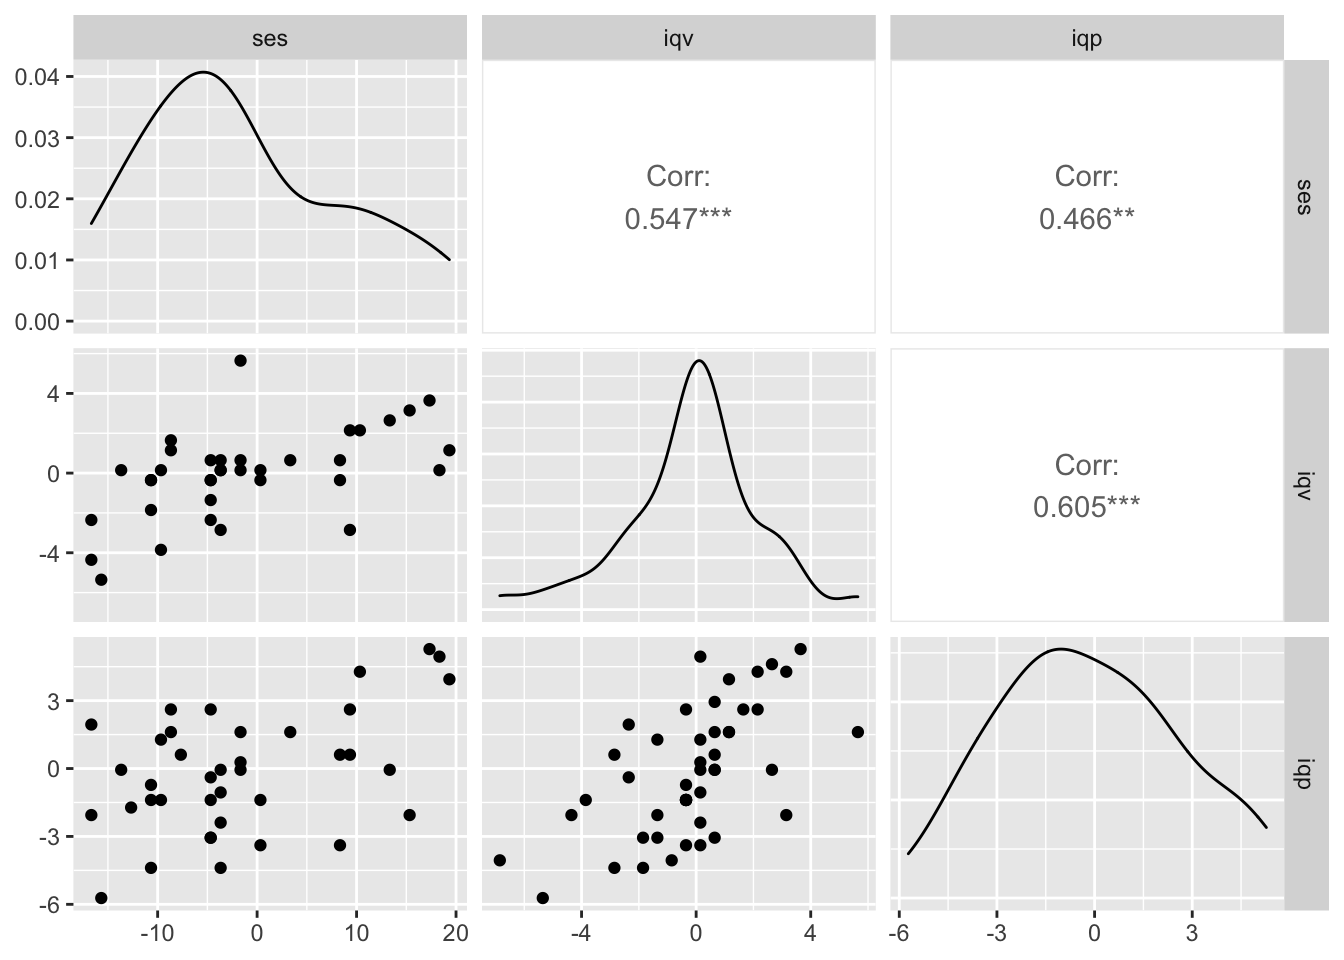
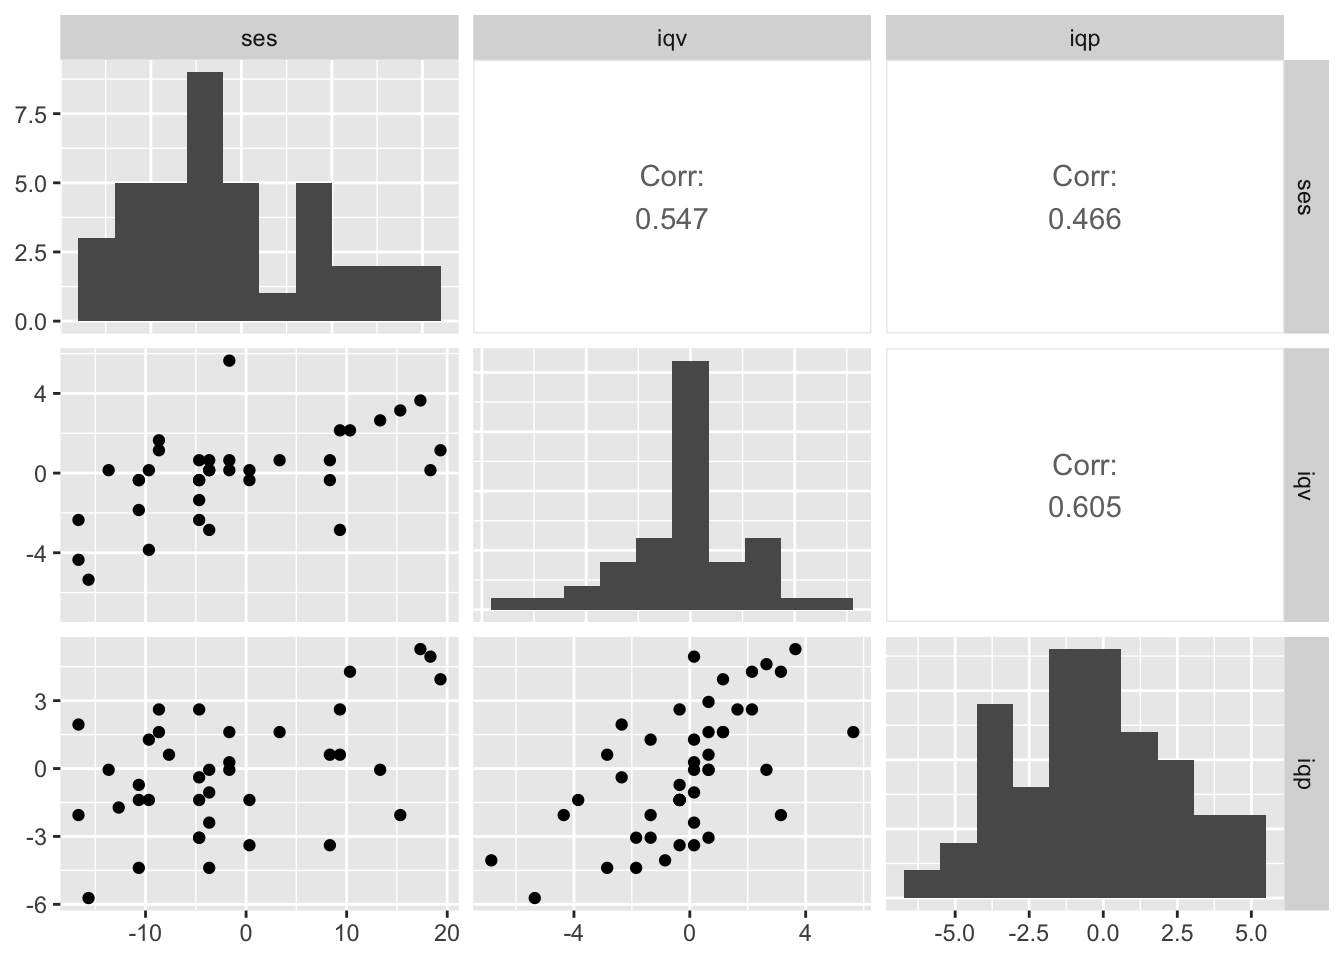
V_B update

diff --git a/content/post/2021-10-21-if-you-fit-a-model-with-multiply-imputed-data-you-can-still-plot-the-line/index.html b/content/post/2021-10-21-if-you-fit-a-model-with-multiply-imputed-data-you-can-still-plot-the-line/index.html
@@ -28,9 +28,12 @@ csl: /Users/solomonkurz/Dropbox/blogdown/content/post/apa.csl
 link-citations: yes
 ---
 
-<script src="{{< blogdown/postref >}}index_files/header-attrs/header-attrs.js"></script>
 
 
+<div id="version-1.1.0" class="section level2">
+<h2>Version 1.1.0</h2>
+<p>Edited on October 9, 2022. Doctoral candidate Reinier van Linschoten kindly pointed out a mistake in my <strong>R</strong> code for <span class="math inline">\(V_B\)</span>, the between imputation variance. The blog post now includes the corrected workflow.</p>
+</div>
 <div id="what" class="section level2">
 <h2>What?</h2>
 <p>If you’re in the know, you know there are three major ways to handle missing data:</p>
@@ -39,14 +42,14 @@ link-citations: yes
 <li>multiple imputation, and</li>
 <li>one-step full-luxury<a href="#fn1" class="footnote-ref" id="fnref1"><sup>1</sup></a> Bayesian imputation.</li>
 </ul>
-<p>If you’re a frequentist, you only have the first two options. If you’re an <strong>R</strong> <span class="citation">(<a href="#ref-R-base" role="doc-biblioref">R Core Team, 2020</a>)</span> user and like multiple imputation, you probably know all about the <strong>mice</strong> package <span class="citation">(<a href="#ref-mice2011" role="doc-biblioref">van Buuren &amp; Groothuis-Oudshoorn, 2011</a>, <a href="#ref-R-mice" role="doc-biblioref">2021</a>)</span>, which generally works great. The bummer is there are no built-in ways to plot the fitted lines from models fit from multiply-imputed data using van Buuren’s <strong>mice</strong>-oriented workflow (see <a href="https://github.com/amices/mice/issues/82">GitHub issue #82</a>). However, there is a way to plot your fitted lines by hand and in this blog post I’ll show you how.</p>
+<p>If you’re a frequentist, you only have the first two options. If you’re an <strong>R</strong> <span class="citation">(<a href="#ref-R-base" role="doc-biblioref">R Core Team, 2022</a>)</span> user and like multiple imputation, you probably know all about the <strong>mice</strong> package <span class="citation">(<a href="#ref-mice2011" role="doc-biblioref">van Buuren &amp; Groothuis-Oudshoorn, 2011</a>, <a href="#ref-R-mice" role="doc-biblioref">2021</a>)</span>, which generally works great. The bummer is there are no built-in ways to plot the fitted lines from models fit from multiply-imputed data using van Buuren’s <strong>mice</strong>-oriented workflow (see <a href="https://github.com/amices/mice/issues/82">GitHub issue #82</a>). However, there is a way to plot your fitted lines by hand and in this blog post I’ll show you how.</p>
 <div id="i-make-assumptions." class="section level3">
 <h3>I make assumptions.</h3>
 <p>For this post, I’m presuming some background knowledge:</p>
 <ul>
 <li><p>You should be familiar with regression. For frequentist introductions, I recommend Roback and Legler’s <span class="citation">(<a href="#ref-roback2021beyond" role="doc-biblioref">2021</a>)</span> online text or James, Witten, Hastie, and Tibshirani’s <span class="citation">(<a href="#ref-james2021AnIntroduction" role="doc-biblioref">2021</a>)</span> online text. For Bayesian introductions, I recommend either edition of McElreath’s text <span class="citation">(<a href="#ref-mcelreathStatisticalRethinkingBayesian2020" role="doc-biblioref">2020</a>, <a href="#ref-mcelreathStatisticalRethinkingBayesian2015" role="doc-biblioref">2015</a>)</span>; Kruschke’s <span class="citation">(<a href="#ref-kruschkeDoingBayesianData2015" role="doc-biblioref">2015</a>)</span> text; or Gelman, Hill, and Vehtari’s <span class="citation">(<a href="#ref-gelmanRegressionOtherStories2020" role="doc-biblioref">2020</a>)</span> text.</p></li>
-<li><p>You should be familiar with contemporary missing data theory. You can find brief overviews in the texts by McElreath and Gelman et al, above. For a deeper dive, I recommend <span class="citation"><a href="#ref-enders2010applied" role="doc-biblioref">Enders</a> (<a href="#ref-enders2010applied" role="doc-biblioref">2010</a>)</span>, <span class="citation"><a href="#ref-little2019statistical" role="doc-biblioref">Little &amp; Rubin</a> (<a href="#ref-little2019statistical" role="doc-biblioref">2019</a>)</span>, or <span class="citation"><a href="#ref-vanbuurenFlexibleImputationMissing2018" role="doc-biblioref">van Buuren</a> (<a href="#ref-vanbuurenFlexibleImputationMissing2018" role="doc-biblioref">2018</a>)</span>. Also, heads up: <a href="https://twitter.com/AmandaKMontoya/status/1341936335301406722">word on the street</a> is Enders is working on the second edition of his book.</p></li>
-<li><p>All code is in <strong>R</strong>. Data wrangling and plotting were done with help from the <strong>tidyverse</strong> <span class="citation">(<a href="#ref-R-tidyverse" role="doc-biblioref">Wickham, 2019</a>; <a href="#ref-wickhamWelcomeTidyverse2019" role="doc-biblioref">Wickham et al., 2019</a>)</span> and <strong>GGally</strong> <span class="citation">(<a href="#ref-R-GGally" role="doc-biblioref">Schloerke et al., 2021</a>)</span>. The data and multiple-imputation workflow are from the <a href="https://CRAN.R-project.org/package=mice"><strong>mice</strong> package</a>.</p></li>
+<li><p>You should be familiar with contemporary missing data theory. You can find brief overviews in the texts by McElreath and Gelman et al, above. For a deeper dive, I recommend <span class="citation">Enders (<a href="#ref-enders2022applied" role="doc-biblioref">2022</a>)</span>, <span class="citation">Little &amp; Rubin (<a href="#ref-little2019statistical" role="doc-biblioref">2019</a>)</span>, or <span class="citation">van Buuren (<a href="#ref-vanbuurenFlexibleImputationMissing2018" role="doc-biblioref">2018</a>)</span>.</p></li>
+<li><p>All code is in <strong>R</strong>. Data wrangling and plotting were done with help from the <strong>tidyverse</strong> <span class="citation">(<a href="#ref-wickhamWelcomeTidyverse2019" role="doc-biblioref">Wickham et al., 2019</a>; <a href="#ref-R-tidyverse" role="doc-biblioref">Wickham, 2022</a>)</span> and <strong>GGally</strong> <span class="citation">(<a href="#ref-R-GGally" role="doc-biblioref">Schloerke et al., 2021</a>)</span>. The data and multiple-imputation workflow are from the <a href="https://CRAN.R-project.org/package=mice"><strong>mice</strong> package</a>.</p></li>
 </ul>
 <p>Here we load our primary <strong>R</strong> packages.</p>
 <pre class="r"><code>library(tidyverse)
@@ -71,7 +74,9 @@ glimpse(b_small)</code></pre>
 ## $ iqv &lt;dbl&gt; NA, -0.8535094, -0.3535094, 1.1464906, 1.1464906, -0.3535094, -0.3…
 ## $ iqp &lt;dbl&gt; -1.72274979, -4.05608313, 2.61058354, 3.94391687, 1.61058354, -1.3…</code></pre>
 <p>Here are our three variables.</p>
-<pre class="r"><code>ggpairs(b_small)</code></pre>
+<pre class="r"><code>ggpairs(b_small,
+        diag = list(continuous = wrap(&quot;barDiag&quot;, bins = 10)),
+        upper = list(continuous = wrap(&quot;cor&quot;, stars = FALSE)))</code></pre>
 <p><img src="{{< blogdown/postref >}}index_files/figure-html/unnamed-chunk-3-1.png" width="672" /></p>
 <p>We’ll be focusing on the relation between socioeconomic status (<code>ses</code>) and verbal IQ (<code>iqv</code>) and performance IQ (<code>iqp</code>) will be a missing data covariate.</p>
 <p>Here’s what the missing data patterns look like.</p>
@@ -136,7 +141,7 @@ glimpse(b_small)</code></pre>
 <pre class="r"><code>predict(fit)</code></pre>
 <p>If you try executing that line, you’ll get a nasty error message reading:</p>
 <blockquote>
-<p>Error in UseMethod(“predict”) : no applicable method for ‘predict’ applied to an object of class “c(‘mira,’ ‘matrix’)”</p>
+<p>Error in UseMethod(“predict”) : no applicable method for ‘predict’ applied to an object of class “c(‘mira’, ‘matrix’)”</p>
 </blockquote>
 <p>Our <code>fit</code> object is not a regular fit object. It’s an object of class <code>"mira"</code> and <code>"matrix"</code>, which means it’s fancy and temperamental.</p>
 <pre class="r"><code>class(fit)</code></pre>
@@ -324,20 +329,20 @@ fitted_lines %&gt;%
   group_by(ses) %&gt;% 
   summarise(fit_bar = mean(fit),
             v_w     = mean(se.fit^2),
-            v_b     = sum(fit - fit_bar)^2 / (m - 1))</code></pre>
+            v_b     = sum((fit - fit_bar)^2) / (m - 1))</code></pre>
 <pre><code>## # A tibble: 30 × 4
-##       ses fit_bar    v_w      v_b
-##     &lt;dbl&gt;   &lt;dbl&gt;  &lt;dbl&gt;    &lt;dbl&gt;
-##  1 -16.7   -2.07  0.260  2.68e-31
-##  2 -15.4   -1.91  0.232  8.77e-32
-##  3 -14.2   -1.76  0.206  4.93e-32
-##  4 -12.9   -1.60  0.182  8.77e-32
-##  5 -11.7   -1.45  0.161  4.93e-32
-##  6 -10.5   -1.30  0.142  1.37e-33
-##  7  -9.22  -1.14  0.126  0       
-##  8  -7.98  -0.989 0.112  1.23e-32
-##  9  -6.74  -0.835 0.100  3.42e-32
-## 10  -5.49  -0.681 0.0908 5.48e-33
+##       ses fit_bar    v_w    v_b
+##     &lt;dbl&gt;   &lt;dbl&gt;  &lt;dbl&gt;  &lt;dbl&gt;
+##  1 -16.7   -2.07  0.260  0.0833
+##  2 -15.4   -1.91  0.232  0.0742
+##  3 -14.2   -1.76  0.206  0.0657
+##  4 -12.9   -1.60  0.182  0.0579
+##  5 -11.7   -1.45  0.161  0.0508
+##  6 -10.5   -1.30  0.142  0.0444
+##  7  -9.22  -1.14  0.126  0.0387
+##  8  -7.98  -0.989 0.112  0.0336
+##  9  -6.74  -0.835 0.100  0.0293
+## 10  -5.49  -0.681 0.0908 0.0256
 ## # … with 20 more rows</code></pre>
 <p>We can define the total variance of the prediction <span class="math inline">\(V_{\bar p}\)</span> as</p>
 <p><span class="math display">\[V_{\bar p} = V_W + V_B \left ( 1 + \frac{1}{m} \right ),\]</span></p>
@@ -346,22 +351,22 @@ fitted_lines %&gt;%
   group_by(ses) %&gt;% 
   summarise(fit_bar = mean(fit),
             v_w     = mean(se.fit^2),
-            v_b     = sum(fit - fit_bar)^2 / (m - 1),
+            v_b     = sum((fit - fit_bar)^2) / (m - 1),
             v_p     = v_w + v_b * (1 + (1 / m)),
             se_p    = sqrt(v_p))</code></pre>
 <pre><code>## # A tibble: 30 × 6
-##       ses fit_bar    v_w      v_b    v_p  se_p
-##     &lt;dbl&gt;   &lt;dbl&gt;  &lt;dbl&gt;    &lt;dbl&gt;  &lt;dbl&gt; &lt;dbl&gt;
-##  1 -16.7   -2.07  0.260  2.68e-31 0.260  0.510
-##  2 -15.4   -1.91  0.232  8.77e-32 0.232  0.481
-##  3 -14.2   -1.76  0.206  4.93e-32 0.206  0.453
-##  4 -12.9   -1.60  0.182  8.77e-32 0.182  0.427
-##  5 -11.7   -1.45  0.161  4.93e-32 0.161  0.401
-##  6 -10.5   -1.30  0.142  1.37e-33 0.142  0.377
-##  7  -9.22  -1.14  0.126  0        0.126  0.354
-##  8  -7.98  -0.989 0.112  1.23e-32 0.112  0.334
-##  9  -6.74  -0.835 0.100  3.42e-32 0.100  0.316
-## 10  -5.49  -0.681 0.0908 5.48e-33 0.0908 0.301
+##       ses fit_bar    v_w    v_b   v_p  se_p
+##     &lt;dbl&gt;   &lt;dbl&gt;  &lt;dbl&gt;  &lt;dbl&gt; &lt;dbl&gt; &lt;dbl&gt;
+##  1 -16.7   -2.07  0.260  0.0833 0.352 0.593
+##  2 -15.4   -1.91  0.232  0.0742 0.313 0.560
+##  3 -14.2   -1.76  0.206  0.0657 0.278 0.527
+##  4 -12.9   -1.60  0.182  0.0579 0.246 0.496
+##  5 -11.7   -1.45  0.161  0.0508 0.217 0.465
+##  6 -10.5   -1.30  0.142  0.0444 0.191 0.437
+##  7  -9.22  -1.14  0.126  0.0387 0.168 0.410
+##  8  -7.98  -0.989 0.112  0.0336 0.149 0.385
+##  9  -6.74  -0.835 0.100  0.0293 0.132 0.364
+## 10  -5.49  -0.681 0.0908 0.0256 0.119 0.345
 ## # … with 20 more rows</code></pre>
 <p>Now we finally have both <span class="math inline">\(\bar p\)</span> and <span class="math inline">\(V_{\bar p}\)</span> for each desired level of <code>ses</code>, we can use the conventional normal-theory approach to compute the pooled 95% confidence intervals.</p>
 <pre class="r"><code># this time we&#39;ll save the results
@@ -369,7 +374,7 @@ fitted_lines &lt;- fitted_lines %&gt;%
   group_by(ses) %&gt;% 
   summarise(fit_bar = mean(fit),
             v_w     = mean(se.fit^2),
-            v_b     = sum(fit - fit_bar)^2 / (m - 1),
+            v_b     = sum((fit - fit_bar)^2) / (m - 1),
             v_p     = v_w + v_b * (1 + (1 / m)),
             se_p    = sqrt(v_p)) %&gt;% 
   # use the _p suffix to indicate these are pooled
@@ -383,11 +388,11 @@ glimpse(fitted_lines)</code></pre>
 ## $ ses     &lt;dbl&gt; -16.6666667, -15.4252874, -14.1839080, -12.9425287, -11.701149…
 ## $ fit_bar &lt;dbl&gt; -2.06663732, -1.91265660, -1.75867587, -1.60469515, -1.4507144…
 ## $ v_w     &lt;dbl&gt; 0.25989881, 0.23153126, 0.20555857, 0.18198075, 0.16079779, 0.…
-## $ v_b     &lt;dbl&gt; 2.684318e-31, 8.765121e-32, 4.930381e-32, 8.765121e-32, 4.9303…
-## $ v_p     &lt;dbl&gt; 0.25989881, 0.23153126, 0.20555857, 0.18198075, 0.16079779, 0.…
-## $ se_p    &lt;dbl&gt; 0.5098027, 0.4811770, 0.4533857, 0.4265920, 0.4009960, 0.37684…
-## $ lwr_p   &lt;dbl&gt; -3.06585065, -2.85576342, -2.64731180, -2.44081550, -2.2366665…
-## $ upr_p   &lt;dbl&gt; -1.06742400, -0.96954978, -0.87003995, -0.76857480, -0.6647622…</code></pre>
+## $ v_b     &lt;dbl&gt; 0.08332943, 0.07416123, 0.06568224, 0.05789246, 0.05079188, 0.…
+## $ v_p     &lt;dbl&gt; 0.35156118, 0.31310861, 0.27780903, 0.24566245, 0.21666886, 0.…
+## $ se_p    &lt;dbl&gt; 0.5929259, 0.5595611, 0.5270759, 0.4956435, 0.4654770, 0.43683…
+## $ lwr_p   &lt;dbl&gt; -3.22877218, -3.00939633, -2.79174469, -2.57615635, -2.3630493…
+## $ upr_p   &lt;dbl&gt; -0.904502468, -0.815916869, -0.725607057, -0.633233949, -0.538…</code></pre>
 </div>
 <div id="third-plot." class="section level4">
 <h4>Third: plot.</h4>
@@ -412,13 +417,13 @@ glimpse(fitted_lines)</code></pre>
 <div id="session-info" class="section level2">
 <h2>Session info</h2>
 <pre class="r"><code>sessionInfo()</code></pre>
-<pre><code>## R version 4.1.1 (2021-08-10)
+<pre><code>## R version 4.2.0 (2022-04-22)
 ## Platform: x86_64-apple-darwin17.0 (64-bit)
-## Running under: macOS Catalina 10.15.7
+## Running under: macOS Big Sur/Monterey 10.16
 ## 
 ## Matrix products: default
-## BLAS:   /Library/Frameworks/R.framework/Versions/4.1/Resources/lib/libRblas.0.dylib
-## LAPACK: /Library/Frameworks/R.framework/Versions/4.1/Resources/lib/libRlapack.dylib
+## BLAS:   /Library/Frameworks/R.framework/Versions/4.2/Resources/lib/libRblas.0.dylib
+## LAPACK: /Library/Frameworks/R.framework/Versions/4.2/Resources/lib/libRlapack.dylib
 ## 
 ## locale:
 ## [1] en_US.UTF-8/en_US.UTF-8/en_US.UTF-8/C/en_US.UTF-8/en_US.UTF-8
@@ -427,28 +432,34 @@ glimpse(fitted_lines)</code></pre>
 ## [1] stats     graphics  grDevices utils     datasets  methods   base     
 ## 
 ## other attached packages:
-##  [1] mice_3.13.0     GGally_2.1.2    forcats_0.5.1   stringr_1.4.0  
-##  [5] dplyr_1.0.7     purrr_0.3.4     readr_2.0.1     tidyr_1.1.3    
-##  [9] tibble_3.1.5    ggplot2_3.3.5   tidyverse_1.3.1
+##  [1] mice_3.14.0     GGally_2.1.2    forcats_0.5.1   stringr_1.4.1  
+##  [5] dplyr_1.0.10    purrr_0.3.4     readr_2.1.2     tidyr_1.2.1    
+##  [9] tibble_3.1.8    ggplot2_3.3.6   tidyverse_1.3.2
 ## 
 ## loaded via a namespace (and not attached):
-##  [1] Rcpp_1.0.7         lattice_0.20-44    lubridate_1.7.10   assertthat_0.2.1  
-##  [5] digest_0.6.28      utf8_1.2.2         R6_2.5.1           cellranger_1.1.0  
-##  [9] plyr_1.8.6         backports_1.2.1    reprex_2.0.1       evaluate_0.14     
-## [13] highr_0.9          httr_1.4.2         blogdown_1.5       pillar_1.6.3      
-## [17] rlang_0.4.11       readxl_1.3.1       rstudioapi_0.13    jquerylib_0.1.4   
-## [21] rmarkdown_2.10     labeling_0.4.2     munsell_0.5.0      broom_0.7.9       
-## [25] compiler_4.1.1     modelr_0.1.8       xfun_0.25          pkgconfig_2.0.3   
-## [29] htmltools_0.5.2    tidyselect_1.1.1   bookdown_0.23      emo_0.0.0.9000    
-## [33] reshape_0.8.8      fansi_0.5.0        crayon_1.4.1       tzdb_0.1.2        
-## [37] dbplyr_2.1.1       withr_2.4.2        grid_4.1.1         jsonlite_1.7.2    
-## [41] gtable_0.3.0       lifecycle_1.0.1    DBI_1.1.1          magrittr_2.0.1    
-## [45] scales_1.1.1       cli_3.0.1          stringi_1.7.4      farver_2.1.0      
-## [49] fs_1.5.0           xml2_1.3.2         bslib_0.3.0        ellipsis_0.3.2    
-## [53] generics_0.1.0     vctrs_0.3.8        RColorBrewer_1.1-2 tools_4.1.1       
-## [57] glue_1.4.2         hms_1.1.0          fastmap_1.1.0      yaml_2.2.1        
-## [61] colorspace_2.0-2   rvest_1.0.1        knitr_1.33         haven_2.4.3       
-## [65] sass_0.4.0</code></pre>
+##  [1] Rcpp_1.0.9          lattice_0.20-45     lubridate_1.8.0    
+##  [4] assertthat_0.2.1    digest_0.6.29       utf8_1.2.2         
+##  [7] plyr_1.8.7          R6_2.5.1            cellranger_1.1.0   
+## [10] backports_1.4.1     reprex_2.0.2        evaluate_0.16      
+## [13] highr_0.9           httr_1.4.4          blogdown_1.11      
+## [16] pillar_1.8.1        rlang_1.0.6         googlesheets4_1.0.1
+## [19] readxl_1.4.1        rstudioapi_0.13     jquerylib_0.1.4    
+## [22] rmarkdown_2.16      labeling_0.4.2      googledrive_2.0.0  
+## [25] munsell_0.5.0       broom_1.0.1         compiler_4.2.0     
+## [28] modelr_0.1.8        xfun_0.33           pkgconfig_2.0.3    
+## [31] htmltools_0.5.3     tidyselect_1.1.2    bookdown_0.28      
+## [34] emo_0.0.0.9000      reshape_0.8.9       fansi_1.0.3        
+## [37] crayon_1.5.1        tzdb_0.3.0          dbplyr_2.2.1       
+## [40] withr_2.5.0         grid_4.2.0          jsonlite_1.8.0     
+## [43] gtable_0.3.1        lifecycle_1.0.2     DBI_1.1.3          
+## [46] magrittr_2.0.3      scales_1.2.1        cli_3.4.0          
+## [49] stringi_1.7.8       cachem_1.0.6        farver_2.1.1       
+## [52] fs_1.5.2            xml2_1.3.3          bslib_0.4.0        
+## [55] ellipsis_0.3.2      generics_0.1.3      vctrs_0.4.1        
+## [58] RColorBrewer_1.1-3  tools_4.2.0         glue_1.6.2         
+## [61] hms_1.1.1           fastmap_1.1.0       yaml_2.3.5         
+## [64] colorspace_2.0-3    gargle_1.2.0        rvest_1.0.2        
+## [67] knitr_1.40          haven_2.5.1         sass_0.4.2</code></pre>
 </div>
 <div id="references" class="section level2 unnumbered">
 <h2>References</h2>
@@ -456,8 +467,8 @@ glimpse(fitted_lines)</code></pre>
 <div id="ref-brandsma1989effects" class="csl-entry">
 Brandsma, H., &amp; Knuver, J. (1989). Effects of school and classroom characteristics on pupil progress in language and arithmetic. <em>International Journal of Educational Research</em>, <em>13</em>(7), 777–788. <a href="https://doi.org/10.1016/0883-0355(89)90028-1">https://doi.org/10.1016/0883-0355(89)90028-1</a>
 </div>
-<div id="ref-enders2010applied" class="csl-entry">
-Enders, C. K. (2010). <em>Applied missing data analysis</em>. <span>Guilford press</span>. <a href="http://www.appliedmissingdata.com/">http://www.appliedmissingdata.com/</a>
+<div id="ref-enders2022applied" class="csl-entry">
+Enders, C. K. (2022). <em>Applied missing data analysis</em> (Second Edition). <span>Guilford Press</span>. <a href="http://www.appliedmissingdata.com/">http://www.appliedmissingdata.com/</a>
 </div>
 <div id="ref-gelmanRegressionOtherStories2020" class="csl-entry">
 Gelman, A., Hill, J., &amp; Vehtari, A. (2020). <em>Regression and other stories</em>. <span>Cambridge University Press</span>. <a href="https://doi.org/10.1017/9781139161879">https://doi.org/10.1017/9781139161879</a>
@@ -481,7 +492,7 @@ McElreath, R. (2015). <em>Statistical rethinking: <span>A Bayesian</span> course
 Miles, A. (2016). Obtaining predictions from models fit to multiply imputed data. <em>Sociological Methods &amp; Research</em>, <em>45</em>(1), 175–185. <a href="https://doi.org/10.1177/0049124115610345">https://doi.org/10.1177/0049124115610345</a>
 </div>
 <div id="ref-R-base" class="csl-entry">
-R Core Team. (2020). <em>R: <span>A</span> language and environment for statistical computing</em>. <span>R Foundation for Statistical Computing</span>. <a href="https://www.R-project.org/">https://www.R-project.org/</a>
+R Core Team. (2022). <em>R: <span>A</span> language and environment for statistical computing</em>. <span>R Foundation for Statistical Computing</span>. <a href="https://www.R-project.org/">https://www.R-project.org/</a>
 </div>
 <div id="ref-roback2021beyond" class="csl-entry">
 Roback, P., &amp; Legler, J. (2021). <em>Beyond multiple linear regression: <span>Applied</span> generalized linear models and multilevel models in <span>R</span></em>. <span>CRC Press</span>. <a href="https://bookdown.org/roback/bookdown-BeyondMLR/">https://bookdown.org/roback/bookdown-BeyondMLR/</a>
@@ -499,14 +510,14 @@ van Buuren, S., &amp; Groothuis-Oudshoorn, K. (2011). <span class="nocase">mice<
 van Buuren, S., &amp; Groothuis-Oudshoorn, K. (2021). <em><span class="nocase">mice</span>: <span>Multivariate</span> imputation by chained equations</em> [Manual]. <a href="https://CRAN.R-project.org/package=mice">https://CRAN.R-project.org/package=mice</a>
 </div>
 <div id="ref-R-tidyverse" class="csl-entry">
-Wickham, H. (2019). <em><span class="nocase">tidyverse</span>: <span>Easily</span> install and load the ’tidyverse’</em>. <a href="https://CRAN.R-project.org/package=tidyverse">https://CRAN.R-project.org/package=tidyverse</a>
+Wickham, H. (2022). <em><span class="nocase">tidyverse</span>: <span>Easily</span> install and load the ’tidyverse’</em>. <a href="https://CRAN.R-project.org/package=tidyverse">https://CRAN.R-project.org/package=tidyverse</a>
 </div>
 <div id="ref-wickhamWelcomeTidyverse2019" class="csl-entry">
 Wickham, H., Averick, M., Bryan, J., Chang, W., McGowan, L. D., François, R., Grolemund, G., Hayes, A., Henry, L., Hester, J., Kuhn, M., Pedersen, T. L., Miller, E., Bache, S. M., Müller, K., Ooms, J., Robinson, D., Seidel, D. P., Spinu, V., … Yutani, H. (2019). Welcome to the tidyverse. <em>Journal of Open Source Software</em>, <em>4</em>(43), 1686. <a href="https://doi.org/10.21105/joss.01686">https://doi.org/10.21105/joss.01686</a>
 </div>
 </div>
 </div>
-<div class="footnotes">
+<div class="footnotes footnotes-end-of-document">
 <hr />
 <ol>
 <li id="fn1"><p>Be warned that “full-luxury Bayesian …” isn’t a real term. Rather, it’s a playful descriptor coined by the great Richard McElreath. To hear him use it in action, check out his <a href="https://www.youtube.com/watch?v=KNPYUVmY3NM">nifty talk</a> on causal inference. One-step Bayesian imputation is a real thing, though. McElreath covered it in both editions of his text and I’ve even blogged about it <a href="https://solomonkurz.netlify.app/post/2021-07-27-one-step-bayesian-imputation-when-you-have-dropout-in-your-rct/">here</a>.<a href="#fnref1" class="footnote-back">↩</a></p></li>
